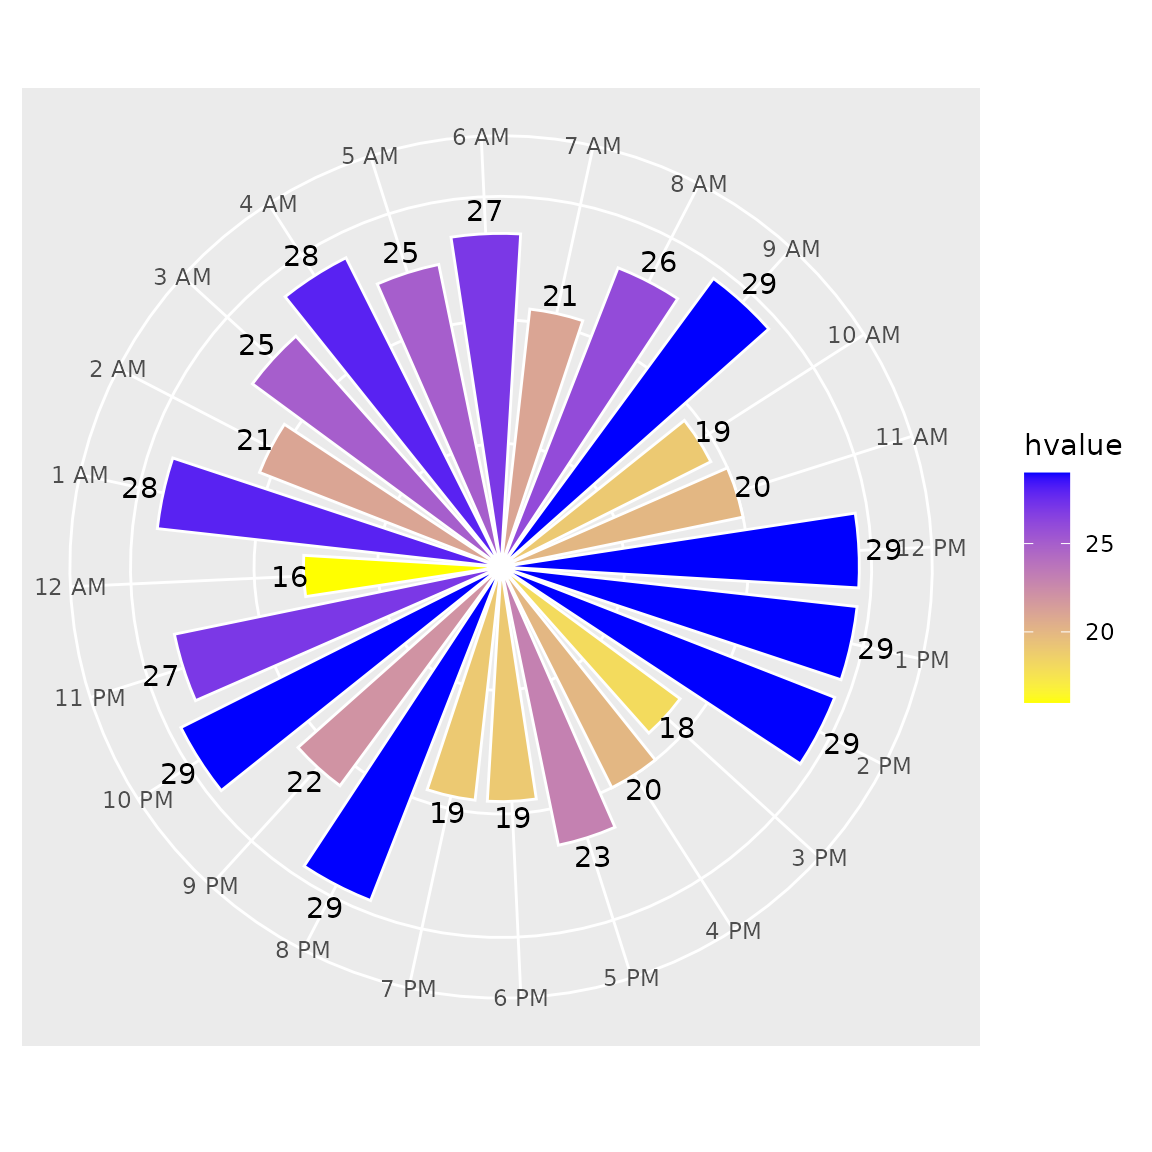
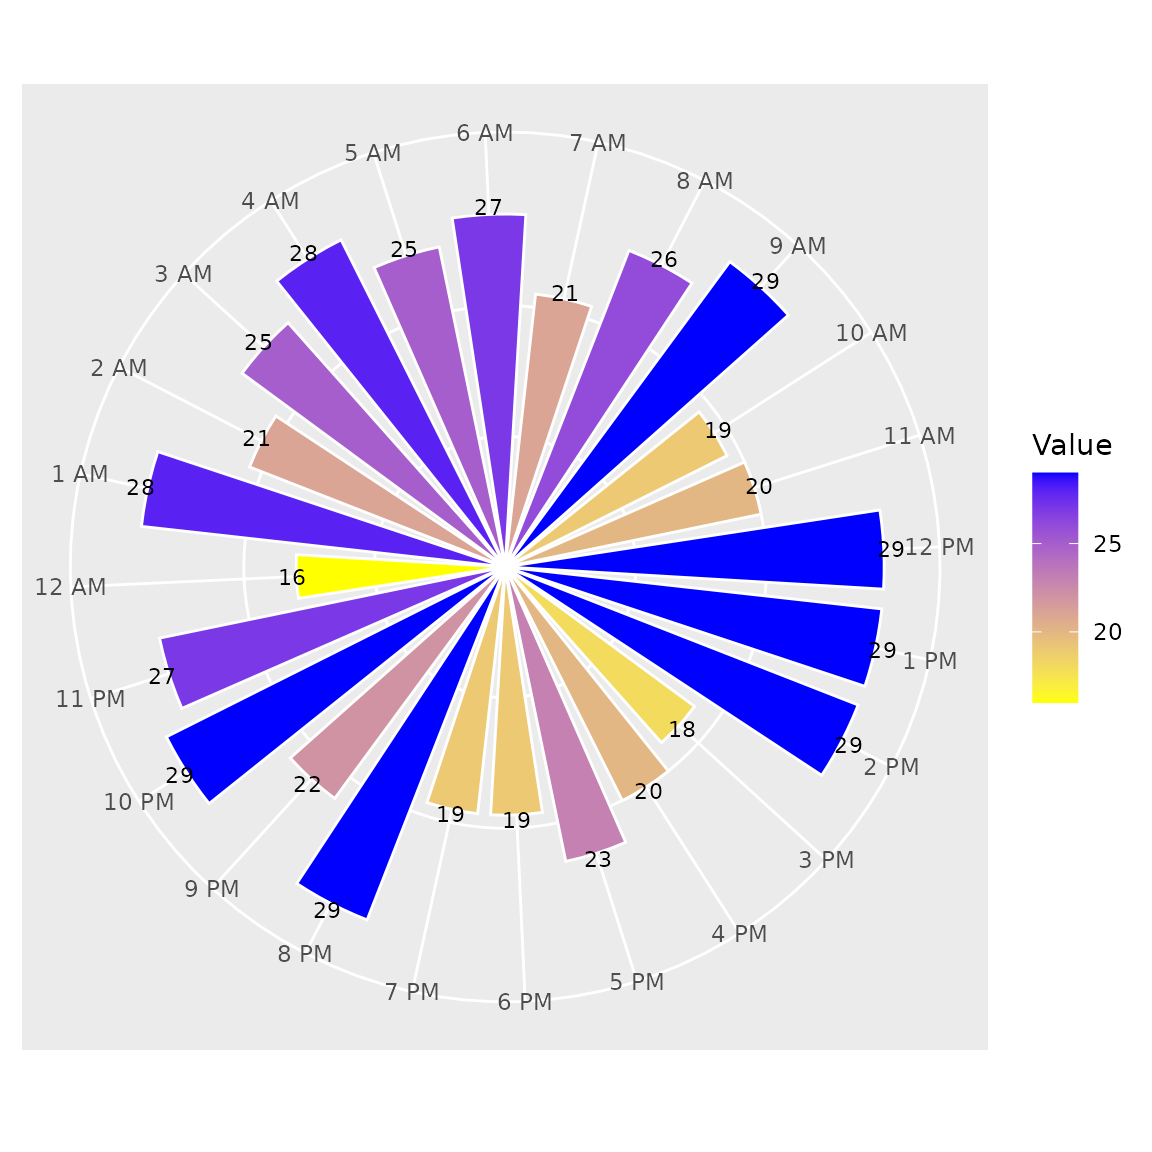
Deploying to gh-pages from @ mahmudstat/clockplot@74221c11f0f5f475b4e773c1805d76f36d4ef48e 🚀

diff --git a/reference/year_chart.html b/reference/year_chart.html
@@ -13,7 +13,7 @@
 
     <a class="navbar-brand me-2" href="../index.html">clockplot</a>
 
-    <small class="nav-text text-muted me-auto" data-bs-toggle="tooltip" data-bs-placement="bottom" title="">0.7.2.9000</small>
+    <small class="nav-text text-muted me-auto" data-bs-toggle="tooltip" data-bs-placement="bottom" title="">0.8.2</small>
 
 
     <button class="navbar-toggler" type="button" data-bs-toggle="collapse" data-bs-target="#navbar" aria-controls="navbar" aria-expanded="false" aria-label="Toggle navigation">
@@ -58,32 +58,29 @@
 
 
 <dl><dt id="arg-mvalue">mvalue<a class="anchor" aria-label="anchor" href="#arg-mvalue"></a></dt>
-<dd><p>A numeric vector having values in each month of the year (starts
-from January, obviously). If you have it in a data frame, you need to
-extract it (one way is this: <code>data$mvalue</code>)</p></dd>
+<dd><p>A numeric vector of length 12, with values for each month (Jan–Dec).
+If you have it in a data frame, extract it (e.g. <code>data$mvalue</code>).</p></dd>
 
 
 <dt id="arg-lgnm">lgnm<a class="anchor" aria-label="anchor" href="#arg-lgnm"></a></dt>
-<dd><p>Title of legend.</p></dd>
+<dd><p>Title of the legend (default <code>"Value"</code>).</p></dd>
 
 
 <dt id="arg-width">width<a class="anchor" aria-label="anchor" href="#arg-width"></a></dt>
-<dd><p>Width of bars</p></dd>
+<dd><p>Width of bars.</p></dd>
 
 
 <dt id="arg-high">high<a class="anchor" aria-label="anchor" href="#arg-high"></a></dt>
-<dd><p>The color name for the high values. The default is <code>red</code></p></dd>
+<dd><p>Color name for high values (default <code>"yellow"</code>).</p></dd>
 
 
 <dt id="arg-low">low<a class="anchor" aria-label="anchor" href="#arg-low"></a></dt>
-<dd><p>The color name for the high values. The default is <code>green</code>.
-The color names can be vice versa or other colors, depending on the context.</p></dd>
+<dd><p>Color name for low values (default <code>"green"</code>).</p></dd>
 
 </dl></div>
     <div class="section level2">
     <h2 id="value">Value<a class="anchor" aria-label="anchor" href="#value"></a></h2>
-    <p>A <code>ggplot</code> object, which can be further modified
-with <code>ggplot2</code> functions and themes.</p>
+    <p>A <code>ggplot</code> object, which can be further modified with <code>ggplot2</code> functions.</p>
     </div>
     <div class="section level2">
     <h2 id="see-also">See also<a class="anchor" aria-label="anchor" href="#see-also"></a></h2>
@@ -94,7 +91,8 @@ with <code>ggplot2</code> functions and themes.</p>
 
     <div class="section level2">
     <h2 id="ref-examples">Examples<a class="anchor" aria-label="anchor" href="#ref-examples"></a></h2>
-    <div class="sourceCode"><pre class="sourceCode r"><code><span class="r-in"><span><span class="va">syltmp</span> <span class="op">&lt;-</span> <span class="fu"><a href="https://rdrr.io/r/base/c.html" class="external-link">c</a></span><span class="op">(</span><span class="fl">18.4</span>, <span class="fl">20.8</span>, <span class="fl">24.3</span>, <span class="fl">26.0</span>, <span class="fl">26.8</span>, <span class="fl">27.6</span>, <span class="fl">28.0</span>, <span class="fl">28.2</span>, <span class="fl">27.9</span>, <span class="fl">26.7</span>, <span class="fl">23.3</span>, <span class="fl">19.7</span><span class="op">)</span></span></span>
+    <div class="sourceCode"><pre class="sourceCode r"><code><span class="r-in"><span><span class="va">syltmp</span> <span class="op">&lt;-</span> <span class="fu"><a href="https://rdrr.io/r/base/c.html" class="external-link">c</a></span><span class="op">(</span><span class="fl">18.4</span>, <span class="fl">20.8</span>, <span class="fl">24.3</span>, <span class="fl">26.0</span>, <span class="fl">26.8</span>, <span class="fl">27.6</span>, <span class="fl">28.0</span>,</span></span>
+<span class="r-in"><span>            <span class="fl">28.2</span>, <span class="fl">27.9</span>, <span class="fl">26.7</span>, <span class="fl">23.3</span>, <span class="fl">19.7</span><span class="op">)</span></span></span>
 <span class="r-in"><span><span class="fu">year_chart</span><span class="op">(</span>mvalue <span class="op">=</span> <span class="va">syltmp</span><span class="op">)</span></span></span>
 <span class="r-plt img"><img src="year_chart-1.png" alt="" width="700" height="433"></span>
 </code></pre></div>

diff --git a/Notes.html b/Notes.html
@@ -13,7 +13,7 @@
 
     <a class="navbar-brand me-2" href="index.html">clockplot</a>
 
-    <small class="nav-text text-muted me-auto" data-bs-toggle="tooltip" data-bs-placement="bottom" title="">0.7.2.9000</small>
+    <small class="nav-text text-muted me-auto" data-bs-toggle="tooltip" data-bs-placement="bottom" title="">0.8.2</small>
 
 
     <button class="navbar-toggler" type="button" data-bs-toggle="collapse" data-bs-target="#navbar" aria-controls="navbar" aria-expanded="false" aria-label="Toggle navigation">
@@ -62,7 +62,8 @@
 <h2 id="strict-checks">Strict Checks<a class="anchor" aria-label="anchor" href="#strict-checks"></a></h2>
 <div class="section level3">
 <h3 id="rhub">rhub<a class="anchor" aria-label="anchor" href="#rhub"></a></h3>
-<p>See <code>?rhub::rhubv2</code>, <code>?rhub::rhub_check</code>,</p>
+<ul><li>rhub::rhub_check(gh_url = NULL, platforms = NULL)</li>
+</ul><p>See <code>?rhub::rhubv2</code>, <code>?rhub::rhub_check</code>,</p>
 <p>• Add the workflow file to git using <code>git add &lt;filename&gt;</code>. • Commit it to git using <code>git commit</code>. • Push the commit to GitHub using <code>git push</code>. • Call rhub::rhub_doctor() to check that you have set up R-hub correctly. • Call rhub::rhub_check() to check your package.</p>
 </div>
 </div>
@@ -166,7 +167,7 @@
 <div class="section level3">
 <h3 id="ref">Ref<a class="anchor" aria-label="anchor" href="#ref"></a></h3>
 <p><a href="https://stackoverflow.com/questions/25489042/linking-to-other-packages-in-documentation-in-roxygen2-in-r" class="external-link uri">https://stackoverflow.com/questions/25489042/linking-to-other-packages-in-documentation-in-roxygen2-in-r</a></p>
-<p>Next version 1. Use 3 variable for length, color, point size 2. <em>qlt modify length by numeric, color by qlt 3. Qlt: if duplicate time, jitter length 4. qlt: letvuser choose colors 5. draw legend lines —-, ———, ————– to denote length 6. </em>qnt length and color by different variable 7. Give user conv data 8. Show work at arbitrary time; also show time as text in front of line. ———————–12:34 10. Cyclic charts lollipop type 11. Color by factor, length by numeric 12. Group together functions by @family 13. Show example from cran pkg 14. Qnt, plot two numeric (e.g. upload, download speed by time) 15. rename quake data, keep date, rearrange col 16. Add Linetype by variable 17. If manu events occur at sams time, show them by jutter / other manipulation 18. remove needed len from conv_data() 19. *qnt (if len is not given, show error, suggest simple chart) <a href="https://cran.r-p" class="external-link uri">https://cran.r-p</a> roject.org/src/contrib/Archive/ggplot2/</p>
+<p>Next version 1. Use 3 variable for length, color, point size 2. <em>qlt modify length by numeric, color by qlt 3. Qlt: if duplicate time, jitter length 4. qlt: letvuser choose colors 5. draw legend lines —-, ———, ————– to denote length 6. </em>qnt length and color by different variable 7. Give user conv data 8. Show work at arbitrary time; also show time as text in front of line. ———————–12:34 10. Cyclic charts lollipop type 11. Color by factor, length by numeric 12. Group together functions by @family 13. Show example from cran pkg 14. Qnt, plot two numeric (e.g. upload, download speed by time) 15. rename quake data, keep date, rearrange col 16. Add Linetype by variable 17. If manu events occur at sams time, show them by jutter / other manipulation 18. remove needed len from conv_data() 19. *qnt (if len is not given, show error, suggest simple chart); try merging again <a href="https://cran.r-p" class="external-link uri">https://cran.r-p</a> roject.org/src/contrib/Archive/ggplot2/</p>
 </div>
 </div>
 </div>

diff --git a/reference/plan_day.html b/reference/plan_day.html
@@ -13,7 +13,7 @@
 
     <a class="navbar-brand me-2" href="../index.html">clockplot</a>
 
-    <small class="nav-text text-muted me-auto" data-bs-toggle="tooltip" data-bs-placement="bottom" title="">0.7.2.9000</small>
+    <small class="nav-text text-muted me-auto" data-bs-toggle="tooltip" data-bs-placement="bottom" title="">0.8.2</small>
 
 
     <button class="navbar-toggler" type="button" data-bs-toggle="collapse" data-bs-target="#navbar" aria-controls="navbar" aria-expanded="false" aria-label="Toggle navigation">
@@ -58,16 +58,15 @@
 
 
 <dl><dt id="arg-dwork">dwork<a class="anchor" aria-label="anchor" href="#arg-dwork"></a></dt>
-<dd><p>A character vector having names of work at each of 24 hours (starts
-from 6 am)</p></dd>
+<dd><p>A character vector of length 24, with names of work at each hour (starting 6 AM).</p></dd>
 
 
 <dt id="arg-width">width<a class="anchor" aria-label="anchor" href="#arg-width"></a></dt>
-<dd><p>Width of bars</p></dd>
+<dd><p>Width of bars.</p></dd>
 
 
 <dt id="arg-brdcol">brdcol<a class="anchor" aria-label="anchor" href="#arg-brdcol"></a></dt>
-<dd><p>Color of bar border. To have no (transparent color), use <code>NA</code></p></dd>
+<dd><p>Color of bar border. Use <code>NA</code> for no border.</p></dd>
 
 </dl></div>
     <div class="section level2">
@@ -78,7 +77,8 @@ with <code>ggplot2</code> functions and themes.</p>
 
     <div class="section level2">
     <h2 id="ref-examples">Examples<a class="anchor" aria-label="anchor" href="#ref-examples"></a></h2>
-    <div class="sourceCode"><pre class="sourceCode r"><code><span class="r-in"><span><span class="va">work</span> <span class="op">&lt;-</span> <span class="fu"><a href="https://rdrr.io/r/base/sample.html" class="external-link">sample</a></span><span class="op">(</span><span class="fu"><a href="https://rdrr.io/r/base/c.html" class="external-link">c</a></span><span class="op">(</span><span class="st">"Study"</span>, <span class="st">"Adda"</span>, <span class="st">"Entertainment"</span>, <span class="st">"Games"</span>, <span class="st">"Exercise"</span>, <span class="st">"Meal"</span><span class="op">)</span>,</span></span>
+    <div class="sourceCode"><pre class="sourceCode r"><code><span class="r-in"><span><span class="fu"><a href="https://rdrr.io/r/base/Random.html" class="external-link">set.seed</a></span><span class="op">(</span><span class="fl">123</span><span class="op">)</span></span></span>
+<span class="r-in"><span><span class="va">work</span> <span class="op">&lt;-</span> <span class="fu"><a href="https://rdrr.io/r/base/sample.html" class="external-link">sample</a></span><span class="op">(</span><span class="fu"><a href="https://rdrr.io/r/base/c.html" class="external-link">c</a></span><span class="op">(</span><span class="st">"Study"</span>, <span class="st">"Adda"</span>, <span class="st">"Entertainment"</span>, <span class="st">"Games"</span>, <span class="st">"Exercise"</span>, <span class="st">"Meal"</span><span class="op">)</span>,</span></span>
 <span class="r-in"><span>  size <span class="op">=</span> <span class="fl">24</span>, replace <span class="op">=</span> <span class="cn">TRUE</span></span></span>
 <span class="r-in"><span><span class="op">)</span></span></span>
 <span class="r-in"><span><span class="fu">plan_day</span><span class="op">(</span>dwork <span class="op">=</span> <span class="va">work</span>, brdcol <span class="op">=</span> <span class="cn">NA</span><span class="op">)</span></span></span>

diff --git a/reference/clock_chart_qnt.html b/reference/clock_chart_qnt.html
@@ -17,7 +17,7 @@ modified according to a numeric vector."><meta property="og:image" content="http
 
     <a class="navbar-brand me-2" href="../index.html">clockplot</a>
 
-    <small class="nav-text text-muted me-auto" data-bs-toggle="tooltip" data-bs-placement="bottom" title="">0.7.2.9000</small>
+    <small class="nav-text text-muted me-auto" data-bs-toggle="tooltip" data-bs-placement="bottom" title="">0.8.2</small>
 
 
     <button class="navbar-toggler" type="button" data-bs-toggle="collapse" data-bs-target="#navbar" aria-controls="navbar" aria-expanded="false" aria-label="Toggle navigation">
@@ -78,17 +78,18 @@ or <code>9:3</code>).</p></dd>
 
 
 <dt id="arg-col">Col<a class="anchor" aria-label="anchor" href="#arg-col"></a></dt>
-<dd><p>The color of line segments and points.</p></dd>
+<dd><p>Optional. A numeric vector to change color. This option will be
+discontinued.</p></dd>
 
 
 <dt id="arg-high">high<a class="anchor" aria-label="anchor" href="#arg-high"></a></dt>
-<dd><p>The color name for the high values. The default is <code>red</code></p></dd>
+<dd><p>The color name for the high values. The default is <code>red</code>.</p></dd>
 
 
 <dt id="arg-low">low<a class="anchor" aria-label="anchor" href="#arg-low"></a></dt>
 <dd><p>The color name for the high values. The default is <code>green</code>.
 The color names can be vice versa or other colors, depending on the context.
-To use a single color for all lines, use same value for <code>high</code> and <code>low</code></p></dd>
+To use a single color for all lines, use same value for <code>high</code> and <code>low</code>.</p></dd>
 
 </dl></div>
     <div class="section level2">

diff --git a/authors.html b/authors.html
@@ -13,7 +13,7 @@
 
     <a class="navbar-brand me-2" href="index.html">clockplot</a>
 
-    <small class="nav-text text-muted me-auto" data-bs-toggle="tooltip" data-bs-placement="bottom" title="">0.7.2.9000</small>
+    <small class="nav-text text-muted me-auto" data-bs-toggle="tooltip" data-bs-placement="bottom" title="">0.8.2</small>
 
 
     <button class="navbar-toggler" type="button" data-bs-toggle="collapse" data-bs-target="#navbar" aria-controls="navbar" aria-expanded="false" aria-label="Toggle navigation">
@@ -57,13 +57,13 @@
 
       <p>Mahmud AA (2025).
 <em>clockplot: Plot Event Times on a 24-Hour Clock</em>.
-R package version 0.7.2.9000, <a href="https://github.com/mahmudstat/clockplot/" class="external-link">https://github.com/mahmudstat/clockplot/</a>.
+R package version 0.8.2, <a href="https://github.com/mahmudstat/clockplot/" class="external-link">https://github.com/mahmudstat/clockplot/</a>.
 </p>
       <pre>@Manual{,
   title = {clockplot: Plot Event Times on a 24-Hour Clock},
   author = {Abdullah Al Mahmud},
   year = {2025},
-  note = {R package version 0.7.2.9000},
+  note = {R package version 0.8.2},
   url = {https://github.com/mahmudstat/clockplot/},
 }</pre>
     </div>

diff --git a/reference/day_chart.html b/reference/day_chart.html
@@ -13,7 +13,7 @@
 
     <a class="navbar-brand me-2" href="../index.html">clockplot</a>
 
-    <small class="nav-text text-muted me-auto" data-bs-toggle="tooltip" data-bs-placement="bottom" title="">0.7.2.9000</small>
+    <small class="nav-text text-muted me-auto" data-bs-toggle="tooltip" data-bs-placement="bottom" title="">0.8.2</small>
 
 
     <button class="navbar-toggler" type="button" data-bs-toggle="collapse" data-bs-target="#navbar" aria-controls="navbar" aria-expanded="false" aria-label="Toggle navigation">
@@ -67,7 +67,7 @@ from 6 am)</p></dd>
 
 
 <dt id="arg-low">low<a class="anchor" aria-label="anchor" href="#arg-low"></a></dt>
-<dd><p>The color name for the high values. The default is <code>green</code>.</p></dd>
+<dd><p>The color name for the low values. The default is <code>green</code>.</p></dd>
 
 
 <dt id="arg-width">width<a class="anchor" aria-label="anchor" href="#arg-width"></a></dt>

diff --git a/reference/chatdf.html b/reference/chatdf.html
@@ -15,7 +15,7 @@ The set contains 25 pushes by each individual"><meta property="og:image" content
 
     <a class="navbar-brand me-2" href="../index.html">clockplot</a>
 
-    <small class="nav-text text-muted me-auto" data-bs-toggle="tooltip" data-bs-placement="bottom" title="">0.7.2.9000</small>
+    <small class="nav-text text-muted me-auto" data-bs-toggle="tooltip" data-bs-placement="bottom" title="">0.8.2</small>
 
 
     <button class="navbar-toggler" type="button" data-bs-toggle="collapse" data-bs-target="#navbar" aria-controls="navbar" aria-expanded="false" aria-label="Toggle navigation">

diff --git a/reference/clock_chart.html b/reference/clock_chart.html
@@ -23,7 +23,7 @@ variable as the criterion, use clock_chart_qlt()."><meta property="og:image" con
 
     <a class="navbar-brand me-2" href="../index.html">clockplot</a>
 
-    <small class="nav-text text-muted me-auto" data-bs-toggle="tooltip" data-bs-placement="bottom" title="">0.7.2.9000</small>
+    <small class="nav-text text-muted me-auto" data-bs-toggle="tooltip" data-bs-placement="bottom" title="">0.8.2</small>
 
 
     <button class="navbar-toggler" type="button" data-bs-toggle="collapse" data-bs-target="#navbar" aria-controls="navbar" aria-expanded="false" aria-label="Toggle navigation">

diff --git a/reference/clock_chart_col.html b/reference/clock_chart_col.html
@@ -15,7 +15,7 @@ events took place at what times. The lines are colored by a criteria."><meta pro
 
     <a class="navbar-brand me-2" href="../index.html">clockplot</a>
 
-    <small class="nav-text text-muted me-auto" data-bs-toggle="tooltip" data-bs-placement="bottom" title="">0.7.2.9000</small>
+    <small class="nav-text text-muted me-auto" data-bs-toggle="tooltip" data-bs-placement="bottom" title="">0.8.2</small>
 
 
     <button class="navbar-toggler" type="button" data-bs-toggle="collapse" data-bs-target="#navbar" aria-controls="navbar" aria-expanded="false" aria-label="Toggle navigation">

diff --git a/reference/clock_chart_qlt.html b/reference/clock_chart_qlt.html
@@ -27,7 +27,7 @@ ggplot2::labs(color = &quot;Legend Title&quot;)."><meta property="og:image" cont
 
     <a class="navbar-brand me-2" href="../index.html">clockplot</a>
 
-    <small class="nav-text text-muted me-auto" data-bs-toggle="tooltip" data-bs-placement="bottom" title="">0.7.2.9000</small>
+    <small class="nav-text text-muted me-auto" data-bs-toggle="tooltip" data-bs-placement="bottom" title="">0.8.2</small>
 
 
     <button class="navbar-toggler" type="button" data-bs-toggle="collapse" data-bs-target="#navbar" aria-controls="navbar" aria-expanded="false" aria-label="Toggle navigation">

diff --git a/reference/clockplot-package.html b/reference/clockplot-package.html
@@ -15,7 +15,7 @@ Provides a novel visualization technique for plotting timestamped events on a 24
 
     <a class="navbar-brand me-2" href="../index.html">clockplot</a>
 
-    <small class="nav-text text-muted me-auto" data-bs-toggle="tooltip" data-bs-placement="bottom" title="">0.7.2.9000</small>
+    <small class="nav-text text-muted me-auto" data-bs-toggle="tooltip" data-bs-placement="bottom" title="">0.8.2</small>
 
 
     <button class="navbar-toggler" type="button" data-bs-toggle="collapse" data-bs-target="#navbar" aria-controls="navbar" aria-expanded="false" aria-label="Toggle navigation">

diff --git a/reference/cyclic_chart.html b/reference/cyclic_chart.html
@@ -15,7 +15,7 @@ days, months and so on."><meta property="og:image" content="https://mahmudstat.g
 
     <a class="navbar-brand me-2" href="../index.html">clockplot</a>
 
-    <small class="nav-text text-muted me-auto" data-bs-toggle="tooltip" data-bs-placement="bottom" title="">0.7.2.9000</small>
+    <small class="nav-text text-muted me-auto" data-bs-toggle="tooltip" data-bs-placement="bottom" title="">0.8.2</small>
 
 
     <button class="navbar-toggler" type="button" data-bs-toggle="collapse" data-bs-target="#navbar" aria-controls="navbar" aria-expanded="false" aria-label="Toggle navigation">
